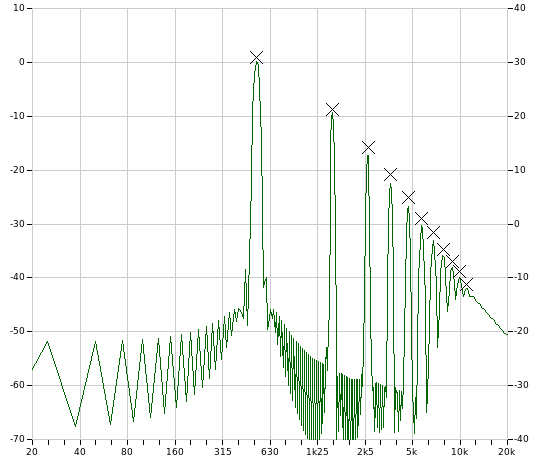
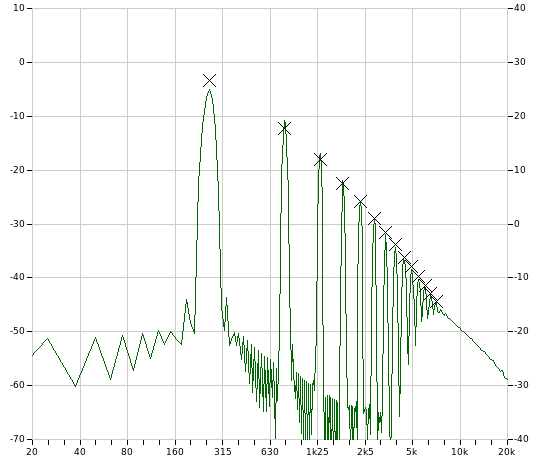
A more honest section II analysis.

diff --git a/incubator/foo-yc20/paper/lac2010_yc20.tex b/incubator/foo-yc20/paper/lac2010_yc20.tex
@@ -78,7 +78,7 @@ These voices are next fed through a passive filter bank. The divided voices have
 
 The drawbar controls are potentiometers which control how much of each bus bar is mixed to each section of the organ. While in section I, drawbars are simply mixed together using resistors, Section II drawbars have more complex filtering. Each section II drawbar is divided into two streams, each filtered separately with RC networks. One stream is low pass filtered while the other is high pass filtered. The low passed and high passed signals are mixed through resistors to combine into bright and dull signals which are then buffered. The brightness potentiometer controls a mix of the two which, after further buffering, is the output of section II. 
 
-The key switches on the lowest 17 keys feed either separate bass bus bars. The bass manual switch controls whether these bus bars are kept separate or mixed with the main bus bars. Thus, with the bass feature disabled, the bass keys work exactly as the rest of the manual. With the switch enabled, the bass bus bars are separate and only feed the bass section. It is worth noting that the bass section effectively discards the signal of bass bus bars 2-2/3', 2', 1-3/5' and 1'.
+The key switches on the lowest 17 keys feed separate bass bus bars. The bass manual switch controls whether these bus bars are kept separate or mixed with the main bus bars. Thus, with the bass feature disabled, the bass keys work exactly as the rest of the manual. With the switch enabled, the bass bus bars are separate and only feed the bass section. It is worth noting that the bass section effectively discards the signal of bass bus bars 2-2/3', 2', 1-3/5' and 1'.
 
 Bass section differs from the two main sections in that both bass manual drawbars (16' and 8') use a mix of multiple bass bus bars. The 16' drawbar is a mix of bass bus bars 16', 8' and 4'. The bus bars are mixed through different value resistors. 16' has the least resistance and 4' the highest resistance. The 8' drawbar is a mix of the 8' bass bus bar with lower resistance and 4' bass bus bar with higher resistance. While section I and section II drawbar control potentiometers are wired in a standard volume configuration, the bass manual drawbars controls are wired center-tap to source with the other tip grounded and the other tip as the output. This configuration makes the drawbar control not only affect how much of the drawbar is mixed in, but it also varies the impedance of the signal source. The different mixing resistors and the varying impedance of the drawbar controls, combined with a fixed capacitor to ground (after summing the drawbar signals) makes the network act as a fairly complex RC filter. This filter has a varying cutoff point and mix amount per bass bus bar.
 
@@ -191,14 +191,13 @@ This can be translated into a continuous transfer function (see equation \ref{eq
 \end{equation}
 
 % TODO: Add measurement here
-% Manual I, mid-c, 8'
-Figure \ref{fig:comp_manual_i} shows C2 played on manual I with only the 8' draw bar engaged. The line depicts the frequency spectrum of the emulation output. The crosses show peaks measured from a YC-20 organ using the same settings.
+% Section I, mid-c, 8'
+Figure \ref{fig:comp_manual_i} shows C2 played on section I with only the 8' draw bar engaged. The line depicts the frequency spectrum of the emulation output. The crosses show peaks measured from a YC-20 organ using the same settings.
 
 \begin{figure}[tbp]
 \centering
 \includegraphics[width=80mm]{analysis/manual_i_compare.png}
 \caption{Comparison between emulated and real manual I drawbar 8' sounds.}
-% Manual
 \label{fig:comp_manual_i}
 \end{figure}
 
@@ -214,12 +213,16 @@ The high-pass filtering is done by a two stage RC filter with a resistor in para
 
 The low-pass stage is much more straightforward. Filtering consists of two chained RC low-pass filters. However, the best match with the original organ was achieved by not compensating for load posed by the chained filters. Thus the filter stage is just two digital RC low pass filters.
 
-Figure \ref{fig:comp_manual_ii} shows C3 played on a fully bright manual II with only the 8' draw bar engaged. The line depicts the frequency spectrum of the emulation output. The crosses show peaks measured from a YC-20 organ using the same settings. This measurement was done at the same overall level as measurements in figure \ref{fig:comp_manual_i}. This shows that there is an overall volume difference between the two manuals, but the balance between harmonics of the sound is well emulated.
+% Second attempt, C2 
+
+Figure \ref{fig:comp_manual_ii} shows C2 played on a fully bright section II with only the 8' draw bar engaged. This measurement was done at the same overall level as measurements in figure \ref{fig:comp_manual_i}. There is a slight overall volume difference, but the measurement also shows the section II filters are not perfect. However, while C2 harmonics do not line up perfectly, the balance between harmonics of some other notes (for example C3) match perfectly to the real organ.
+
+%This shows that there is an overall volume difference between the two sections, but the balance between harmonics of the sound is well emulated.
 
 \begin{figure}[tbp]
 \centering
 \includegraphics[width=80mm]{analysis/manual_ii_compare.png}
-\caption{Comparison between emulated and real bright manual II drawbar 8' sounds.}
+\caption{Comparison between emulated and real bright section II drawbar 8' sounds.}
 \label{fig:comp_manual_ii}
 \end{figure}
 
@@ -366,7 +369,7 @@ The SVG output of the Faust compiler is also worth mentioning. The compiler can 
 \begin{figure}[tbp]
 \centering
 \includegraphics[height=60mm,angle=270]{manual_ii_hp.pdf}
-\caption{Faust SVG output of manual II high pass filtering for a single draw bar. The parameters for the filters are resistance in ohms and capacitance in microfarads.}
+\caption{Faust SVG output of section II high pass filtering for a single draw bar. The parameters for the filters are resistance in ohms and capacitance in microfarads.}
 \label{fig:manual_ii_hp}
 \end{figure}
 
